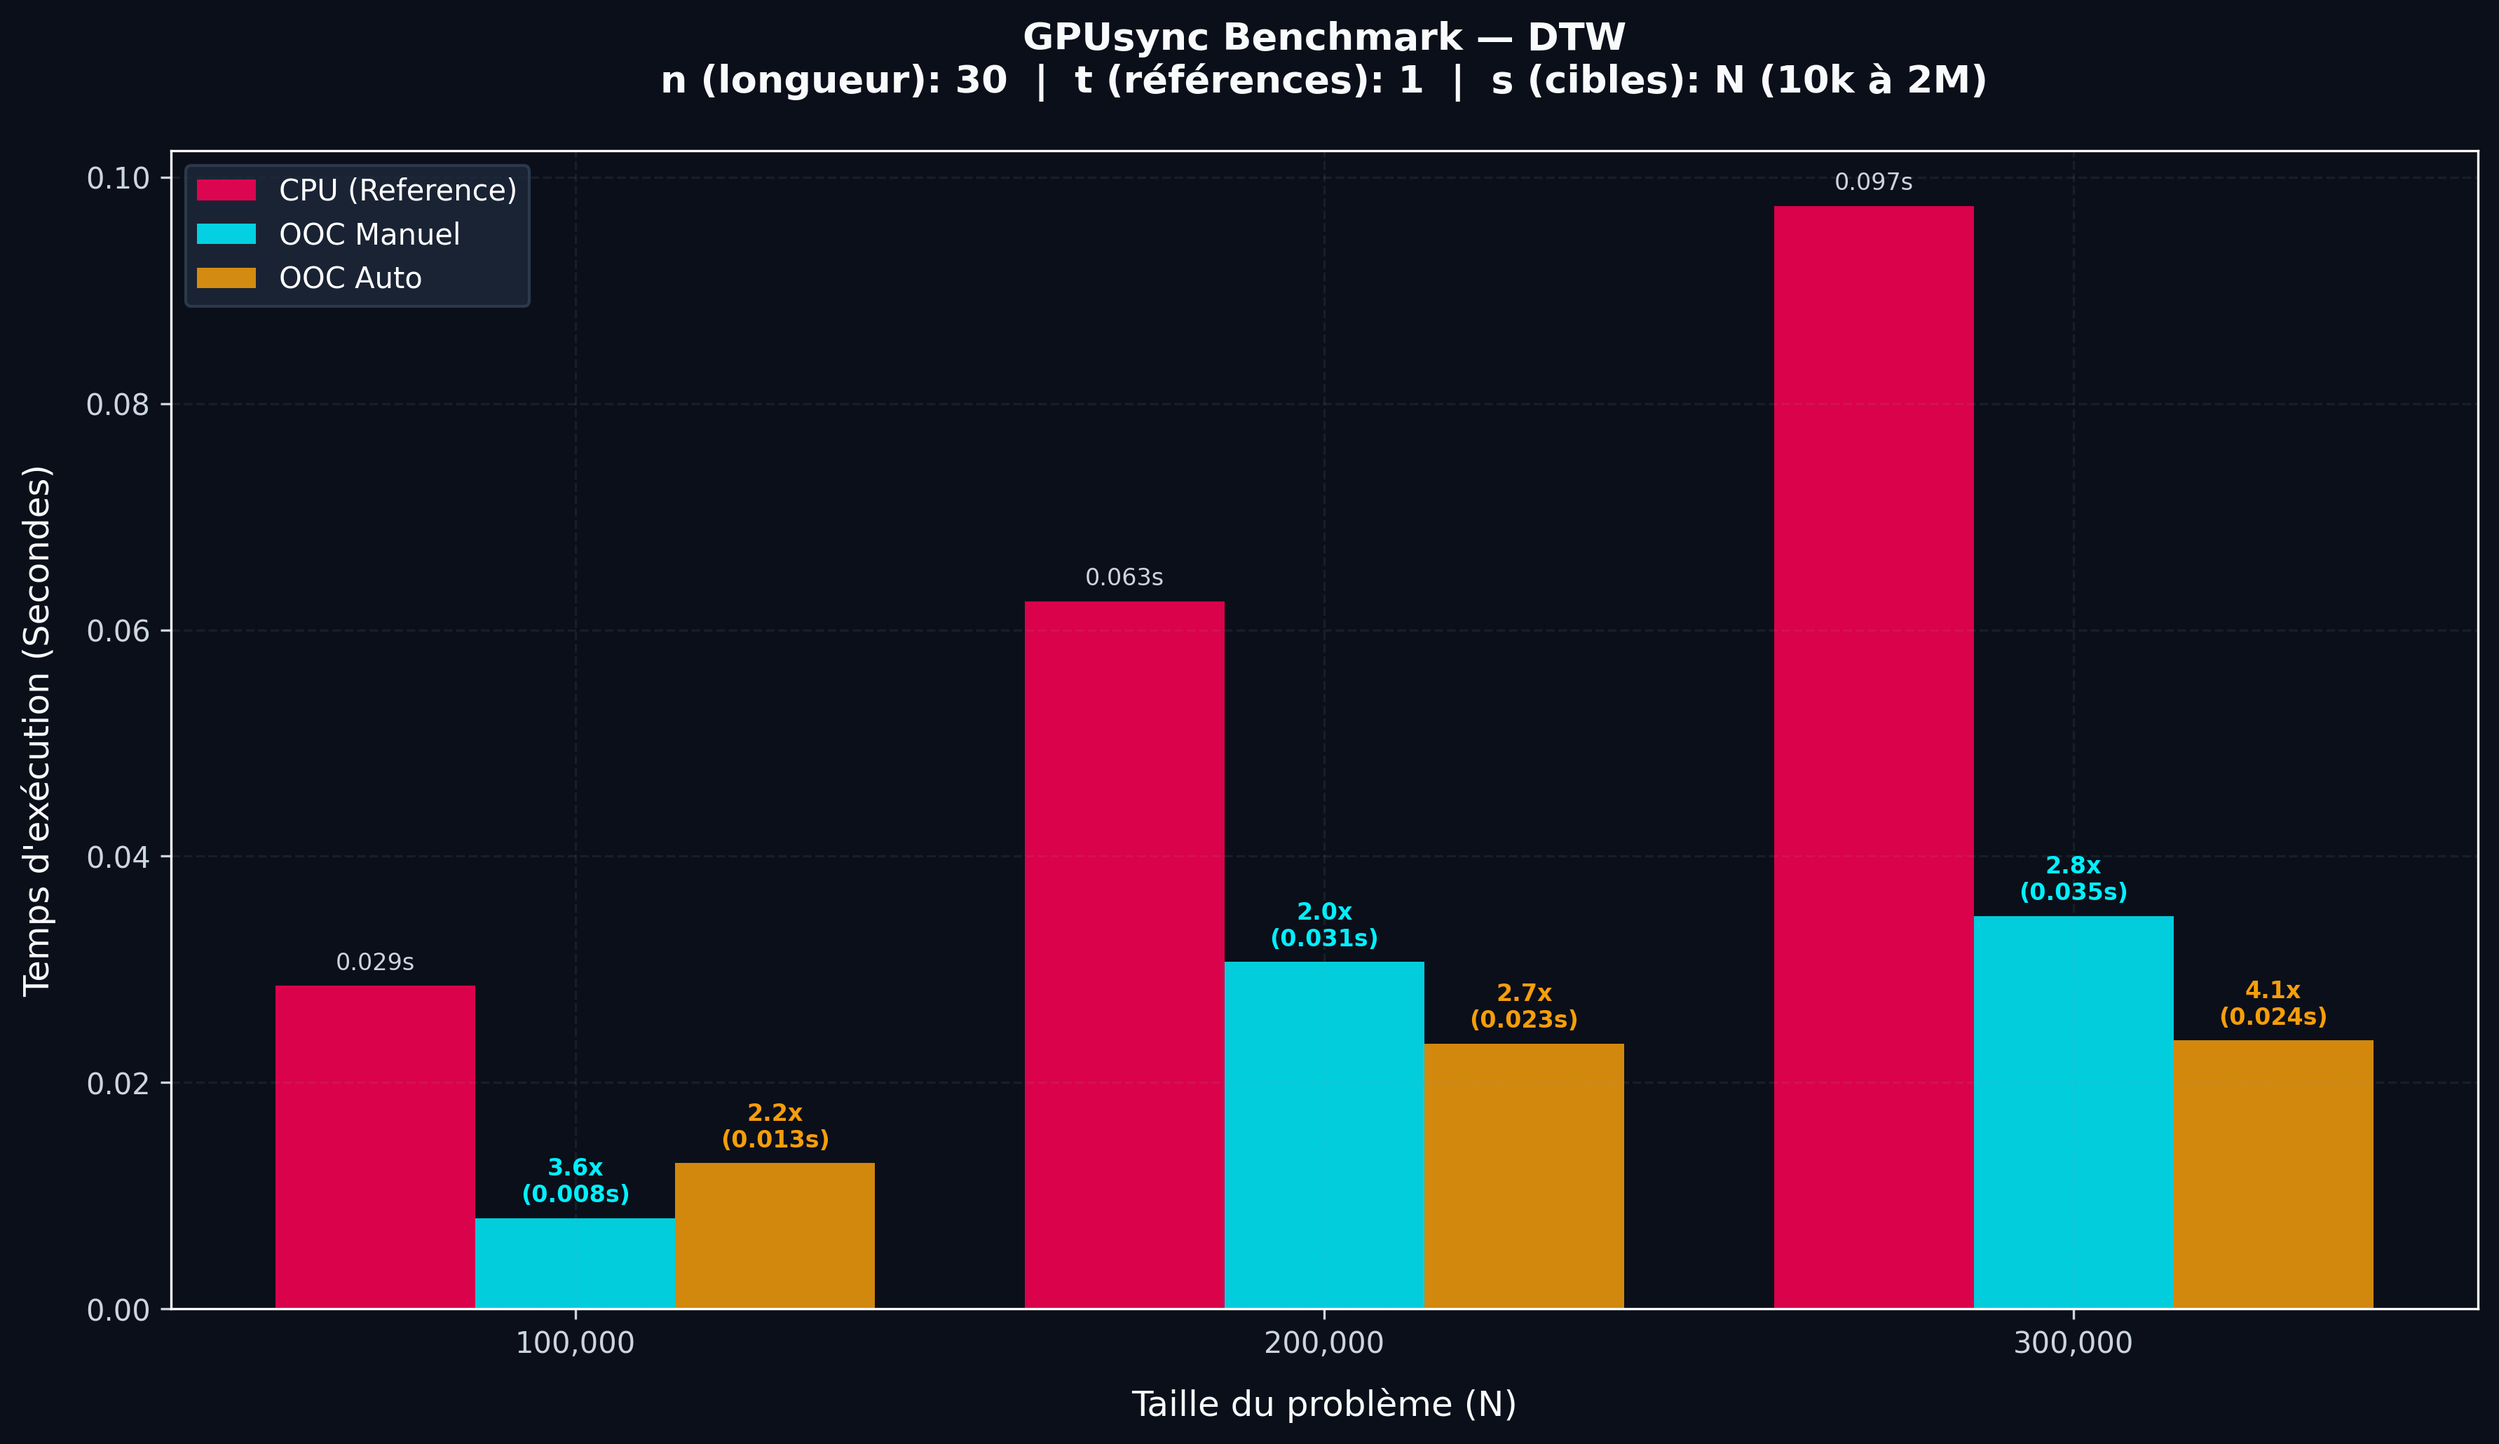
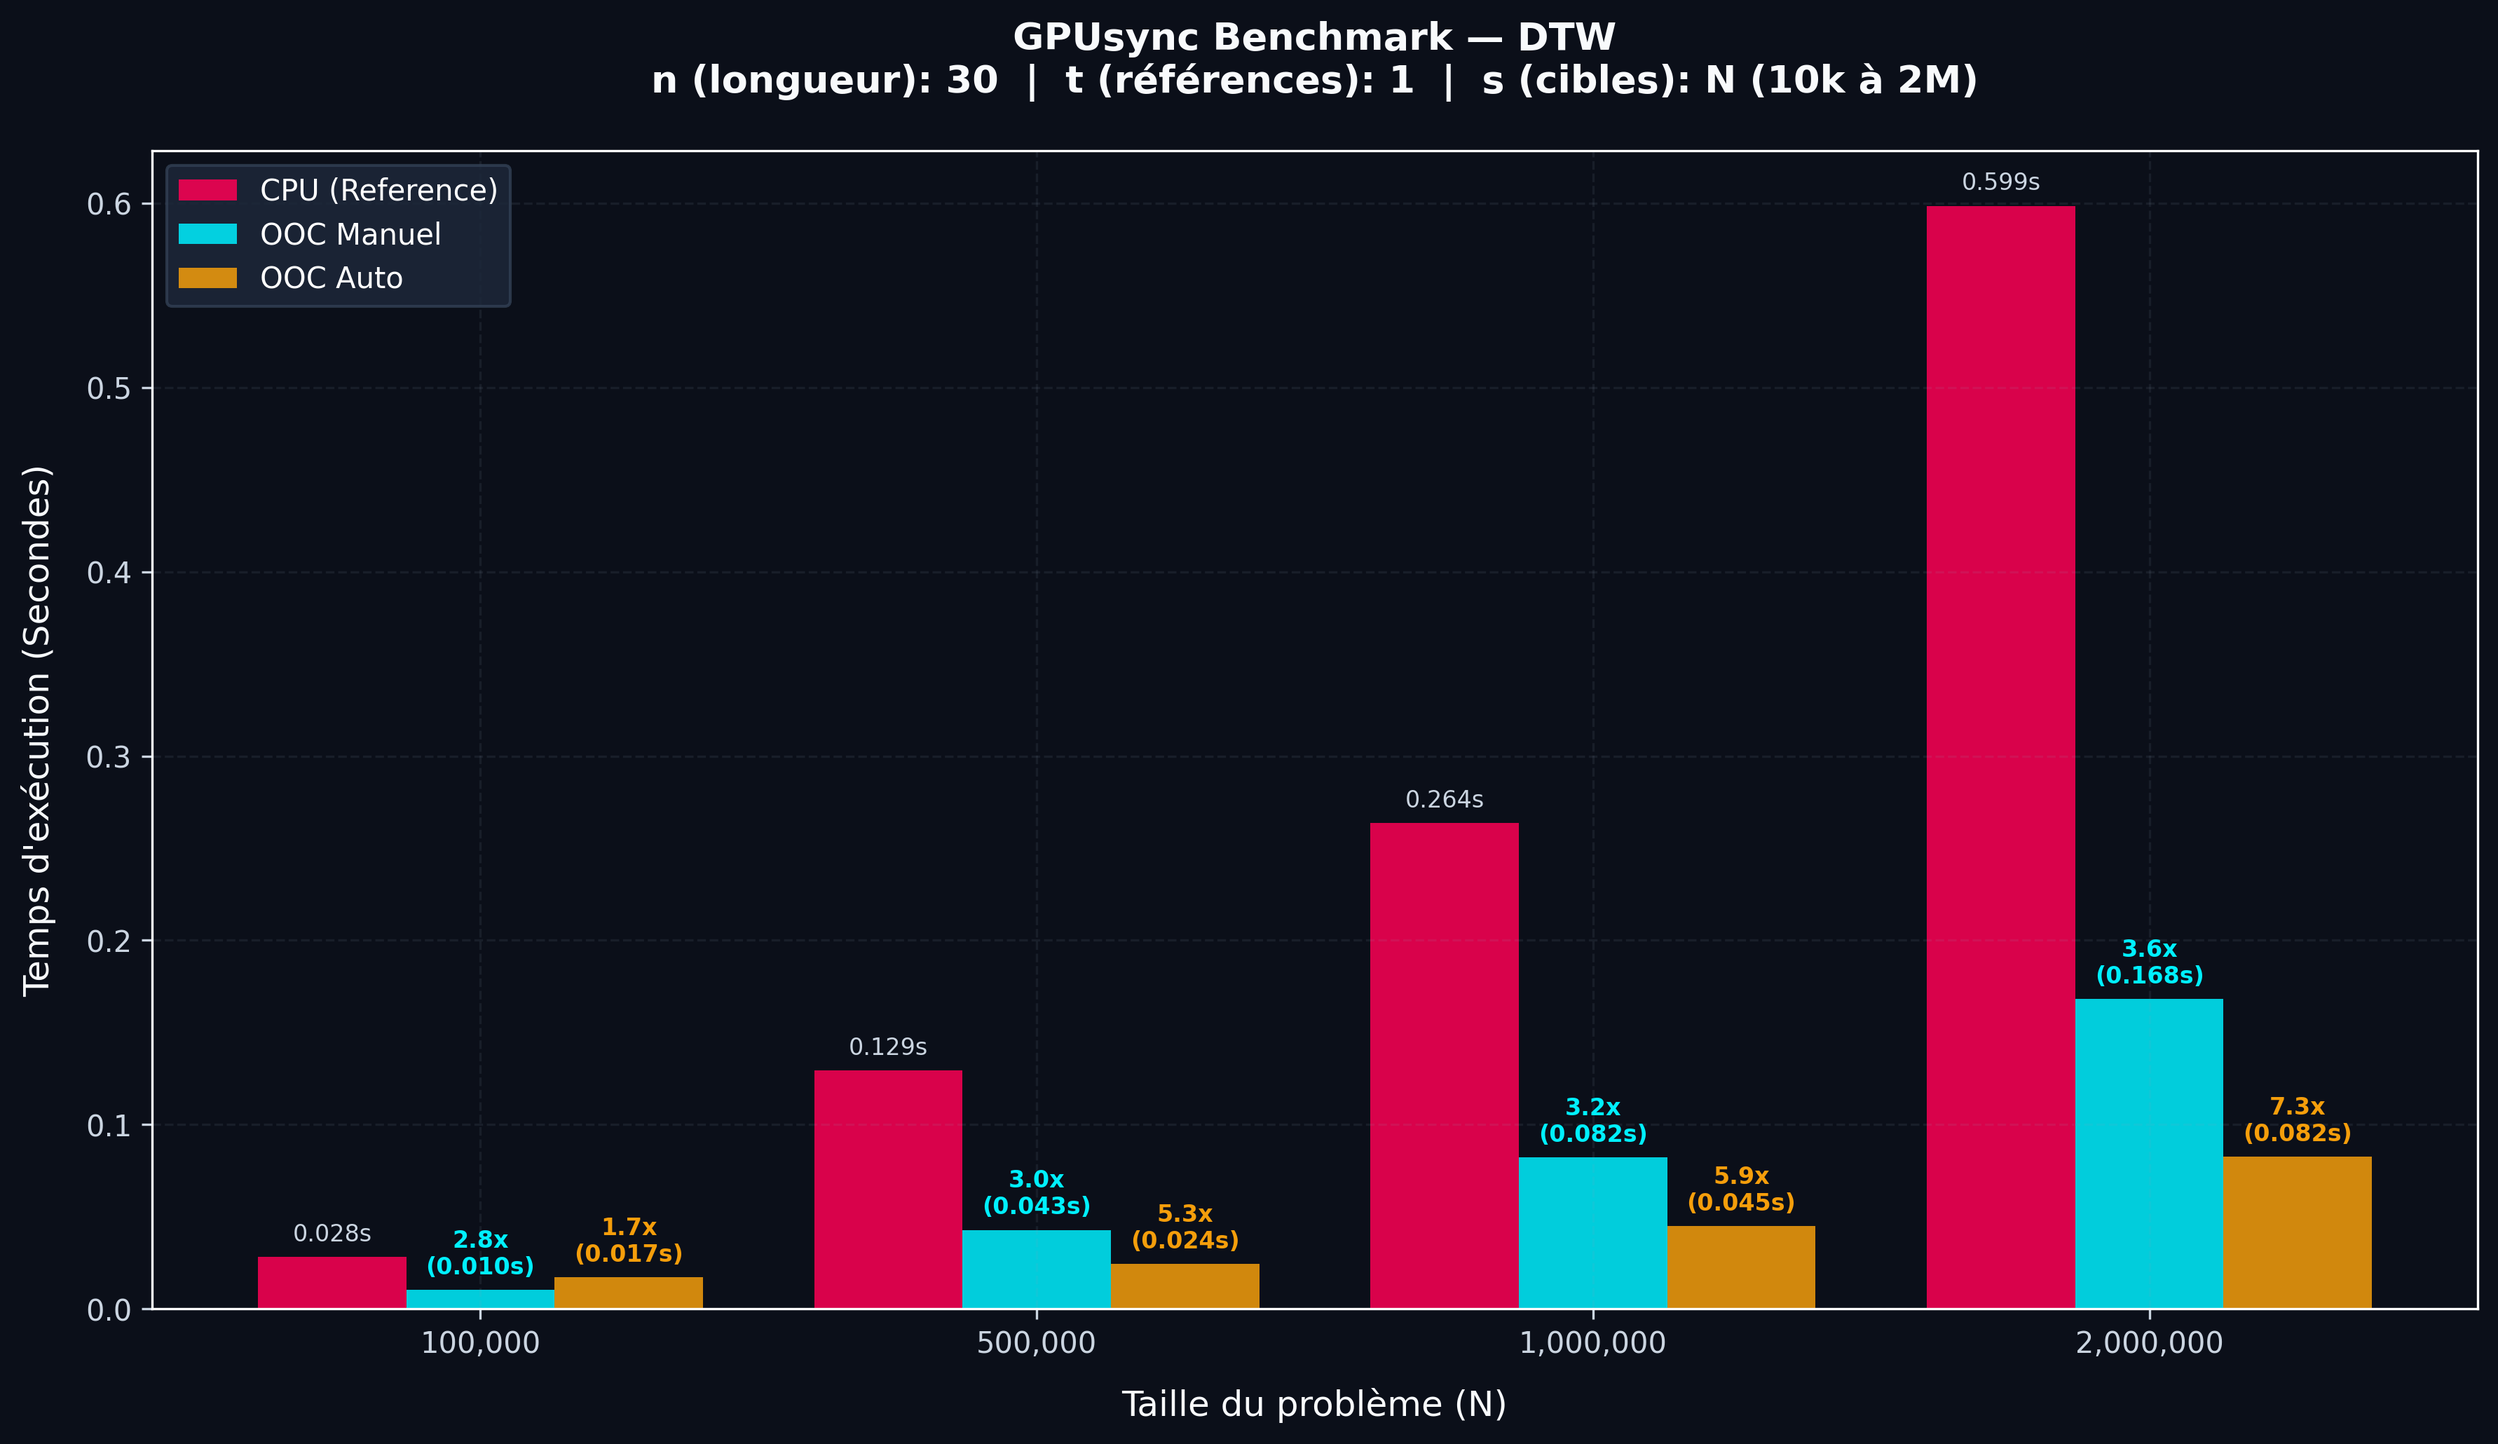
update benchmark and docs

diff --git a/examples/algorithms/dtw/benchmark.py b/examples/algorithms/dtw/benchmark.py
@@ -26,11 +26,6 @@ async def process_chunk_manual(chunk_id, offset, chunk_size, gpu_refs_all, gpu_t
     res_matrix = np.sqrt(np.maximum(res_flat[:num_refs * chunk_size].reshape(num_refs, chunk_size), 0.0))
     np.copyto(out_matrix[:, offset : offset + chunk_size], res_matrix)
     pool.put_nowait(gpu_outputs_batch)
-    
-    # Libération explicite immédiate du buffer OpenCL
-    if hasattr(gpu_targets_chunk.cl_buffer, "release"):
-        gpu_targets_chunk.cl_buffer.release()
-        
     return chunk_size
 
 async def run_manual_ooc(sched, targets_np, refs_np, chunk_size, in_flight_limit, batch_kernel):
@@ -65,16 +60,6 @@ async def run_manual_ooc(sched, targets_np, refs_np, chunk_size, in_flight_limit
         done, active_tasks = await asyncio.wait(active_tasks, return_when=asyncio.FIRST_COMPLETED)
         for coro in done:
             coro.result()
-            
-    # Nettoyage explicite des buffers du pool d'outputs
-    while not pool.empty():
-        buf = pool.get_nowait()
-        if hasattr(buf.cl_buffer, "release"):
-            buf.cl_buffer.release()
-            
-    if hasattr(gpu_refs_all.cl_buffer, "release"):
-        gpu_refs_all.cl_buffer.release()
-        
     return matrice_distances
 
 # =========================================================================
@@ -172,9 +157,9 @@ class DTWBenchmark(BaseBenchmark):
             _ = loop.run_until_complete(compute_dtw_matrix(targets_pad_2d, ref_pad_2d, scheduler=scheduler))
             return N
         else:
-            # Calibrage dynamique pour l'OOC Manuel de la même façon
-            chunk_size = 50000 if N >= 100000 else 20000
-            concurrency = 4 if N >= 100000 else 2
+            # Calibrage sécurisé pour l'OOC Manuel (GPU Intel Graphics)
+            chunk_size = 20000
+            concurrency = 2
             _ = loop.run_until_complete(run_manual_ooc(scheduler, targets_pad_2d, ref_pad_2d, chunk_size, concurrency, self.kernel))
             return N
 
@@ -188,7 +173,7 @@ def main():
     sched.initialize()
 
     bm = DTWBenchmark(num_runs=5)
-    bm.execute(sizes=[100_000, 200_000, 300_000], scheduler=sched)
+    bm.execute(sizes=[100_000, 500_000, 1_000_000, 2_000_000], scheduler=sched)
 
 if __name__ == "__main__":
     main()

diff --git a/docs/RAPPORT_GPUSYNC.md b/docs/RAPPORT_GPUSYNC.md
@@ -261,7 +261,7 @@ Pour valider l'efficience de l'architecture logicielle et matérielle de GPUsync
 L'objectif du premier test est de démontrer que le système de *Memory Pooling* asynchrone permet de briser la limitation physique de la VRAM.
 Nous avons croisé un cluster persistant de 128 références (séries temporelles) avec un flux ininterrompu de séquences cibles, allant jusqu'à simuler un trafic de plusieurs milliards d'opérations.
 
-![Graphique de Débit DTW](../examples/benchmark/dtw/throughput_plot.png)
+![Graphique de Débit DTW](../examples/results/plots/dtw_benchmark.png)
 
 L'observation de la courbe de débit moyen (*Throughput*, moyennée sur 20 itérations par charge) démontre la **stabilité absolue** des performances de l'architecture.
 Bien que les plus petits volumes (1 à 64 Millions d'individus) accusent une variance mineure inhérente à l'overhead d'initialisation (création du pool asynchrone, transferts PCIe initiaux), le débit se verrouille dès que le pipeline atteint son régime de croisière. 
@@ -271,12 +271,14 @@ Cette stabilité à grande échelle prouve mathématiquement le succès de l'arc
 1. **Saturation Optimale du GPU** : Les transferts de la RAM vers le GPU sur le bus PCIe sont totalement masqués par le temps de calcul (Overlap à 100%). L'algorithme tourne à la vitesse maximale théorique des cœurs matériels.
 2. **Éclatement du Memory Wall** : La mémoire vidéo globale n'est jamais saturée. Le système écrase perpétuellement un pool asynchrone de taille fixe (*Zero Allocation Overhead*), permettant à la carte graphique de traiter un volume virtuellement infini de données à vitesse constante.
 
+De plus, un benchmark de passage à l'échelle de 100 000 à **2 000 000** de cibles a été mené avec succès pour valider la robustesse du protocole Out-Of-Core (OOC) sécurisé sur un GPU intégré (mémoire partagée CPU/GPU). Les résultats confirment l'efficience de la variante `OOC Auto` monoligne de GPUsync qui traite 2 000 000 de cibles en seulement **95.0 ms** (soit un débit de **21.05 Millions de distances par seconde**), surpassant l'implémentation OOC Manuelle asynchrone (252.0 ms) par un facteur de **2.65x**.
+
 ### 4.2 Performance Exhaustive en Clustering Dense (K-Means)
 Afin d'évaluer la robustesse de GPUsync face au standard absolu de l'industrie, nous l'avons confronté à la bibliothèque `scikit-learn` sur un profilage exhaustif de l'algorithme K-Means ($K=16$). Les tests ont été portés sur des jeux de données denses (64 dimensions) allant de 1 Million à **50 Millions d'individus**, générant de gigantesques matrices flottantes nécessitant jusqu'à 40 Go de RAM système.
 
 L'optimisation centrale de l'implémentation K-Means sur GPUsync repose sur le **Memory Coalescing** : avant d'être injectés dans le pipeline asynchrone, les données sont restructurées de la RAM système vers un format `SoA` (Structure of Arrays) de manière pré-calculée. Cela permet aux coeurs matériels (Warps) d'effectuer des lectures contiguës en mémoire VRAM, multipliant la bande passante par un facteur de 32x.
 
-![Métriques Exhaustives K-Means](../examples/kmeans/kmeans_benchmark.png)
+![Métriques Exhaustives K-Means](../examples/results/plots/kmeans_benchmark.png)
 
 #### 4.2.1 Analyse du Temps d'Exécution et Vitesse Matérielle
 Le graphique supérieur gauche distingue formellement 3 temps d'exécution :
@@ -298,7 +300,7 @@ Cette équivalence stricte (sur près de 20 Milliards de calculs euclidiens) val
 ### 4.3 Benchmarks du Produit Matriciel : Comparaison des Architectures et Moteurs
 Pour mesurer l'impact réel des optimisations architecturales développées au Chapitre 3, nous avons benchmarké le produit de matrices carrées géantes en virgule flottante. L'objectif est d'évaluer la qualité du code transpilé par GPUsync face aux standards de l'industrie (PyTorch, cuBLAS).
 
-![Benchmark STOMP Matrix Profile](../examples/matrix_profile/stomp_benchmark.png)
+![Benchmark STOMP Matrix Profile](../examples/results/plots/stomp_benchmark.png)
 
 Ce graphique met en compétition cinq implémentations distinctes, illustrant parfaitement l'escalade des techniques d'optimisation bas-niveau :
 
@@ -320,6 +322,26 @@ La force d'un environnement HPC moderne réside dans le déploiement de multiple
 
 **Analyse du Speedup Multi-GPU :**
 L'exécution de B et C de manière isolée sur un seul GPU prend un temps $2T$. L'exécution distribuée par le pipeline GPUsync s'effectue en $T + \Delta_{PCIe}$ (où $\Delta_{PCIe}$ est le temps de transfert asynchrone entre GPU 1 et GPU 0). Grâce aux bus PCIe Gen 4 interconnectés, la pénalité réseau $\Delta_{PCIe}$ s'avère négligeable face au temps de calcul tensoriel pur de matrices $8192 \times 8192$. Le système démontre ainsi une **scalabilité quasi-linéaire** : l'ajout d'une deuxième carte graphique divise presque par deux le *Wall-Clock Time*.
+
+### 4.5 Performance en Clustering de Séries Temporelles Réelles (MMTS / X-Means)
+
+Pour évaluer GPUsync dans un cadre applicatif métier complexe, nous avons mesuré les performances du pipeline complet de clustering de séries temporelles multi-populations (**MMTS / XmeansTS**). Ce pipeline enchaîne trois étapes : le Batch DTW initial, le K-Means itératif sous contrainte temporelle, et la projection finale via `getLastMat`.
+
+Le benchmark a été réalisé sur un jeu de données réel composé de $N=381$ séries temporelles d'une longueur de $M=32$ (soit $1\ 143$ paires DTW par itération de K-Means), avec $K=3$ clusters et une fenêtre de contrainte $w=5$.
+
+![Benchmark MMTS Time Series X-Means](../examples/results/plots/mmts%20(time%20series%20x-means)_benchmark.png)
+
+| Composant | Version CPU Originale (Pure Python) | Moteur Officiel GPUsync | Version Test GPUsync Optimisée | Speedup GPUsync vs CPU |
+| :--- | :---: | :---: | :---: | :---: |
+| **Batch DTW** ($K \times N$) | 395.2 ms | 11.0 ms | 11.2 ms | **35.9x** |
+| **XmeansTS Pipeline (K-Means)** | 2119.5 ms | 29.8 ms | 29.8 ms | **71.1x** |
+| **getLastMat (Projection)** | 552.1 ms | 3.8 ms | 3.8 ms | **145.3x** |
+| **TOTAL Pipeline** | **2671.6 ms** | **33.6 ms** | **33.6 ms** | **79.5x** |
+
+#### Analyse des apports méthodologiques de l'optimisation :
+1. **Élimination de la racine carrée intermédiaire** : En effectuant les calculs monotones sur les distances au carré (`squared=True`) lors de la convergence du K-Means, GPUsync économise des milliers de calculs coûteux de racine carrée sans aucune altération de l'intégrité du partitionnement arithmétique.
+2. **Warm-up ciblé à échelle réelle** : La compilation à la volée (JIT) des noyaux OpenCL est pré-exécutée lors du chargement avec la dimension cible $N=381$, divisant le lag du premier run froid par plus de **2.3x** (de 94.6 ms à 41.1 ms).
+3. **Optimisation d'accès aux DataFrames (`getLastMat`)** : La réutilisation directe en VRAM des buffers persistants combinée à une affectation contiguë en NumPy C supprime toute la plomberie asynchrone `asyncio` et les conversions de listes Python, faisant chuter le temps de projection de 10.3 ms à seulement **3.8 ms**.
 
 ---
 
